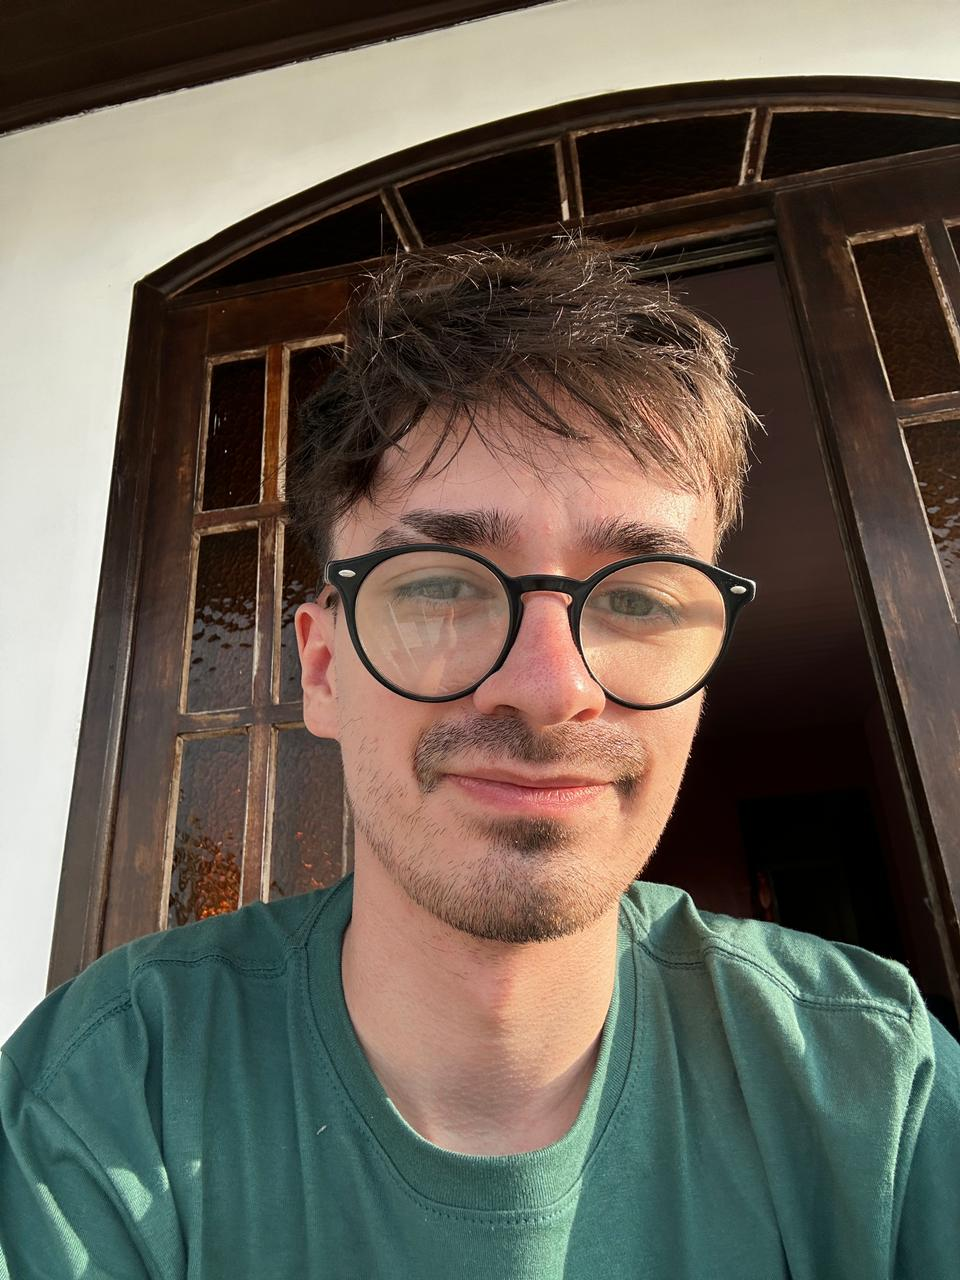
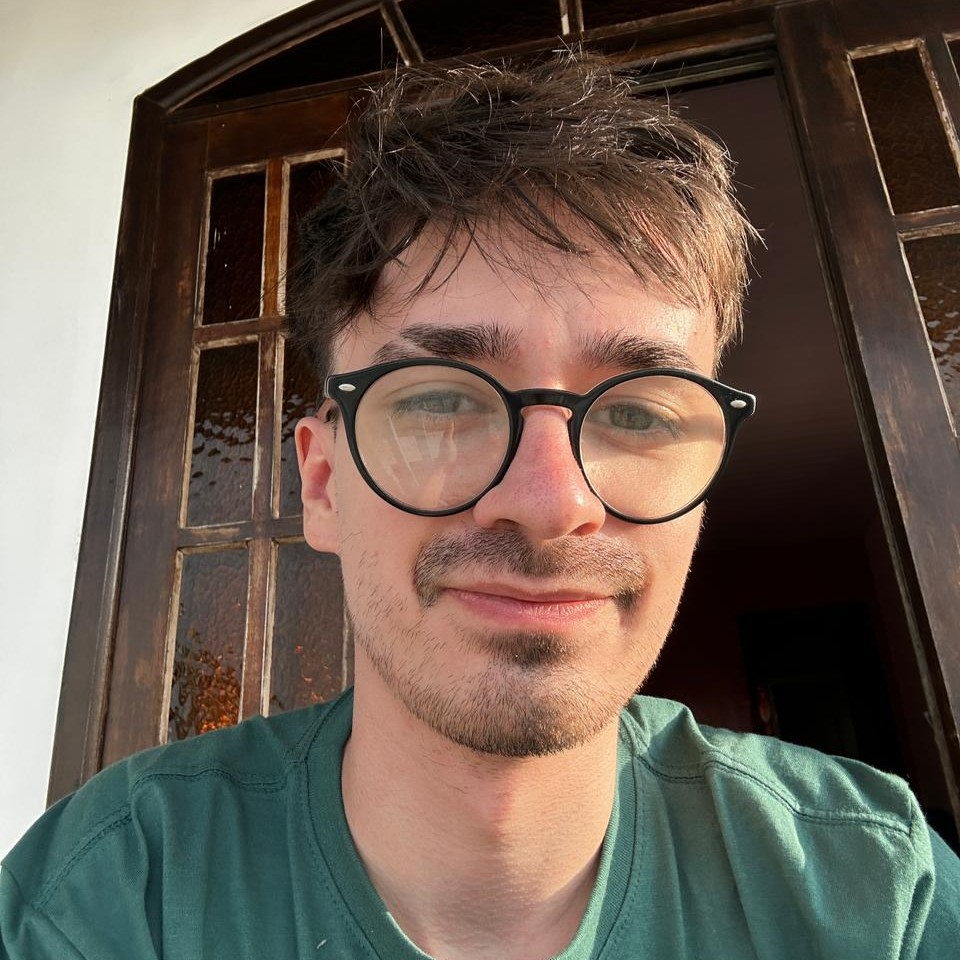
HTML+CSS: modulo 4, aula 2 + adições

diff --git a/alura/html-css/modulo-4/portifolio/about.html b/alura/html-css/modulo-4/portifolio/about.html
@@ -19,7 +19,7 @@
             <p class="apresentacao__conteudo__paragrafo">Desde 2019, venho me dedicando ao mundo da programação. Comecei com um curso de HTML e CSS pelo Curso em Vídeo, e depois segui para JavaScript, que me chamou bastante atenção. Foi aí que comecei a criar bots para o Discord e descobri minha paixão pelo Back-End. Em seguida, aprendi LUA para ajudar um amigo em um projeto de servidor de jogo, onde atuei por cerca de 2 anos, sempre buscando aprender mais e evoluir minhas habilidades.</p>
             <p class="apresentacao__conteudo__paragrafo">Há 3 anos, abri minha própria loja de scripts para FiveM, e já conquistei mais de 200 clientes satisfeitos. Atualmente, estou focado em aprender PHP, além de continuar me dedicando ao estudo da programação. Estou buscando novas oportunidades de emprego para expandir minha experiência e crescer ainda mais no mercado.</p>
         </section>
-        <img src="assets/selfie.jpg" alt="Minha foto">
+        <img class="apresentacao__imagem" src="assets/selfie.jpg" alt="Minha foto">
     </main>
     <footer class="rodape">
         <p>Desenvolvido por @felipem7k.</p>

diff --git a/alura/html-css/modulo-4/portifolio/styles/style.css b/alura/html-css/modulo-4/portifolio/styles/style.css
@@ -48,15 +48,14 @@ body {
         align-items: center;
         justify-content: space-between;
     
-        & img {
-            height: 350px;
-            width: 350px;
+        & .apresentacao__imagem {
+            width: 30%;
             object-fit: cover;
             border-radius: 50%;
         }
     
         & .apresentacao__conteudo {
-            width: 615px;
+            width: 50%;
             display: flex;
             flex-direction: column;
             gap: 40px;
@@ -127,8 +126,20 @@ body {
 }
 
 @media only screen and (width < 1385px) {
-    .apresentacao {
-        flex-direction: column-reverse;
-        gap: 20px;
+    body {
+        & .apresentacao {
+            flex-direction: column-reverse;
+            gap: 20px;
+    
+            & .apresentacao__imagem {
+                width: 50%;
+                object-fit: cover;
+                border-radius: 50%;
+            }
+
+            & .apresentacao__conteudo {
+                width: 90%;
+            }
+        }
     }
 }

diff --git a/alura/html-css/modulo-4/portifolio/index.html b/alura/html-css/modulo-4/portifolio/index.html
@@ -30,7 +30,7 @@
                 </a>
             </div>
         </section>
-        <img src="assets/selfie.jpg" alt="Minha foto">
+        <img class="apresentacao__imagem" src="assets/selfie.jpg" alt="Minha foto">
     </main>
     <footer class="rodape">
         <p>Desenvolvido por @felipem7k.</p>
